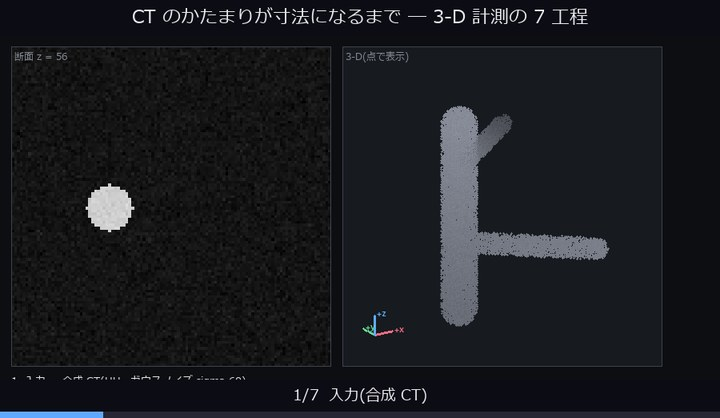
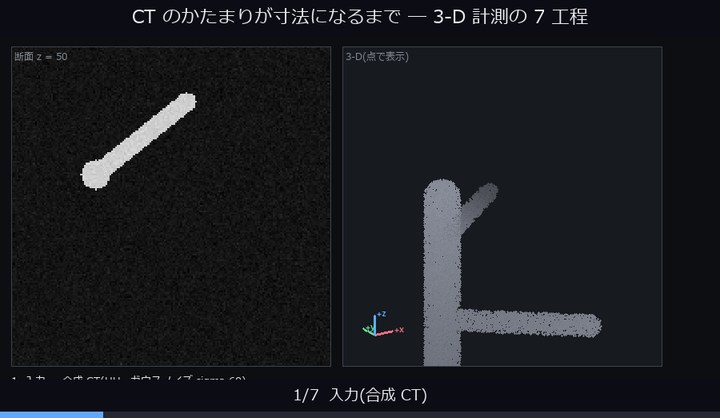
auto: test_visiondesign.py 編集前 (2026-09-02 02:49)

Changed region(s): [[0.5806, 0.2488, 0.8556, 0.9019], [0.0917, 0.2177, 0.275, 0.5598]]

diff --git a/tools/gen_wing1d_gallery.py b/tools/gen_wing1d_gallery.py
@@ -236,7 +236,7 @@ class Ax:
                 (np.log10(self.xhi) - np.log10(self.xlo))
         else:
             t = (v - self.xlo) / (self.xhi - self.xlo)
-        return self.x0 + (self.x1 - self.x0) * np.clip(t, -0.02, 1.02)
+        return self.x0 + (self.x1 - self.x0) * np.clip(t, 0.0, 1.0)
 
     def Y(self, v):
         v = np.asarray(v, np.float64)
@@ -245,7 +245,7 @@ class Ax:
             t = (np.log10(v) - np.log10(self.ylo)) / (np.log10(self.yhi) - np.log10(self.ylo))
         else:
             t = (v - self.ylo) / (self.yhi - self.ylo)
-        return self.y1 - (self.y1 - self.y0) * np.clip(t, -0.02, 1.02)
+        return self.y1 - (self.y1 - self.y0) * np.clip(t, 0.0, 1.0)
 
     # -- 部品 ------------------------------------------------------------- #
     def panel(self, color=C_PANEL) -> None:
@@ -913,7 +913,7 @@ def ex_order_tracking(log):
         ang = A.angular_resample(seg, fs, seg_rpm, samples_per_rev=64)
         rev_even = int(ang["whole_revolutions"]) // 2 * 2        # 偶数回転で切る
         os_ = A.order_spectrum(seg, fs, seg_rpm, samples_per_rev=64,
-                               revolutions=rev_even, max_order=25.0)
+                               revolutions=rev_even, max_order=31.9)
         shaft = float(np.mean(seg_rpm)) / 60.0
         rows.append({
             "t0": s0 / fs, "shaft_hz": shaft, "rpm": float(np.mean(seg_rpm)),
@@ -988,11 +988,11 @@ def ex_order_tracking(log):
         fig.text(axf.x0 + 6, axf.y0 + 4, "amp", C_DIM, 11)
 
         # 下: 次数スペクトル
-        axo = Ax(fig, 76, 410, W - 30, 552, (0.0, 25.0), (0.0, m_hi * 1.12))
+        axo = Ax(fig, 76, 410, W - 30, 552, (0.0, 32.0), (0.0, m_hi * 1.12))
         axo.panel()
         ink = fig.ink()
         axo.frame(ink)
-        axo.xticks(ink, [0, 1, 3.5, 5, 10, 15, 20, 25], "%g")
+        axo.xticks(ink, [0, 1, 3.5, 5, 10, 15, 20, 25, 30], "%g")
         axo.yticks(ink, [0.0, 0.25, 0.5, 0.75, 1.0], "%.2f")
         fig.stamp(ink, C_AXIS)
         ink = fig.ink()
@@ -1007,11 +1007,11 @@ def ex_order_tracking(log):
         fig.stamp(ink, C_TRUE)
         fig.text(80, 392, "order spectrum [shaft order] - the shaft components stay, "
                           "the resonance moves", C_TEXT, 12, True)
-        fig.text(axo.X(r["o400"]) + 6, 414,
+        fig.text(min(float(axo.X(r["o400"])) + 6, axo.x1 - 216), 414,
                  f"400 Hz = order {r['o400']:.2f} (moves)", C_TRUE, 11, True)
         fig.text(axo.X(3.5) + 4, 436, "order 3.5 (fixed)", C_B, 11, True)
         fig.text(axo.x0 + 6, axo.y0 + 4, "amp", C_DIM, 11)
-        _xunit(fig, axo, "shaft order ->")
+        fig.text(axo.x0 + 168, axo.y0 + 4, "shaft order ->", C_DIM, 11)
 
         fig.box(76, 574, W - 30, H - 12, C_PANEL2)
         fig.text(88, 580, f"cropped to {r['rev']} whole revolutions (even, so order 3.5 "

diff --git a/tests/test_visiondesign.py b/tests/test_visiondesign.py
@@ -173,7 +173,7 @@ def test_image_formation_preserves_shape_range_and_only_blurs():
     rng = np.random.default_rng(0)
     img = np.zeros((64, 64))
     img[28:36, 20:44] = 1.0
-    cap = vd.image_formation(img, f_number=8.0, pixel_pitch_um=3.45)
+    cap = vd.image_formation(img, f_number=8.0, pixel_pitch_um=3.45, vignetting=False)
     assert cap.shape == img.shape
     assert cap.dtype == np.float64
     assert 0.0 <= cap.min() and cap.max() <= 1.0
@@ -181,7 +181,8 @@ def test_image_formation_preserves_shape_range_and_only_blurs():
     assert np.abs(np.diff(cap, axis=1)).sum() < np.abs(np.diff(img, axis=1)).sum()
     # 決定的(乱数を含まない)
     assert np.array_equal(cap, vd.image_formation(img, f_number=8.0,
-                                                  pixel_pitch_um=3.45))
+                                                  pixel_pitch_um=3.45,
+                                                  vignetting=False))
     _ = rng                                                # 乱数は使わない契約
 
 

diff --git a/tools/gen_wing3d_gallery.py b/tools/gen_wing3d_gallery.py
@@ -3271,7 +3271,7 @@ def ex_pipeline(log) -> dict:
     # --- 同じ寸法のコマを作る(flipbook は寸法不一致を例外にする) ---
     FW, FH = 900, 430
     pw = 400
-    zc = 56
+    zc = 50                      # 枝が 1 本出ている高さ(工程の違いが見える断面)
     center = np.array([n / 2.0] * 3)
     Rv = _rot(32.0, 20.0)
 

diff --git a/docs/articles/exhibits/wing3d.md b/docs/articles/exhibits/wing3d.md
@@ -67,7 +67,7 @@
 
 ![CT のかたまりが寸法になるまで(7 工程)](https://raw.githubusercontent.com/furuse-kazufumi/fullseye/master/docs/articles/assets/media/wing3d_pipeline_flow.gif)
 
-*↑ **CT のかたまりが寸法になるまで(7 工程)** ―― ノイズ付きの合成 CT(112³、spacing 0.6 mm)が寸法になるまでの 7 工程をコマ送りに束ねた。窓 → 二値化 → ラベリング(連結成分 1 個)→ 最大成分(5508.2 mm³、球形度 0.4811)→ `vol_crop_domain` でメモリ **1/2.3** → 細線化(枝 5 / 分岐 2 / 端点 4)→ 距離変換で最大内接半径 **4.8374 mm**(真値 4.800 mm)。各コマに工程名と進捗が焼いてあるので、止めた 1 コマでも読める。 使用 op: `vol_window_level`, `vol_label`, `vol_region_props`, `vol_crop_domain`, `vol_uncrop`, `skeletonize_vol`, `skeleton_branches3d`, `skeleton_endpoints3d`, `skeleton_junctions3d`, `vol_distance_transform`。*
+*↑ **CT のかたまりが寸法になるまで(7 工程)** ―― ノイズ付きの合成 CT(176³、spacing 0.6 mm)が寸法になるまでの 7 工程をコマ送りに束ねた。窓 → 二値化 → ラベリング(連結成分 1 個)→ 最大成分(5816.9 mm³、球形度 0.4702)→ `vol_crop_domain` でメモリ **1/7.7** → 細線化(枝 5 / 分岐 2 / 端点 4)→ 距離変換で最大内接半径 **4.8374 mm**(真値 4.800 mm)。各コマに工程名と進捗が焼いてあるので、止めた 1 コマでも読める。 使用 op: `vol_window_level`, `vol_label`, `vol_region_props`, `vol_crop_domain`, `vol_uncrop`, `skeletonize_vol`, `skeleton_branches3d`, `skeleton_endpoints3d`, `skeleton_junctions3d`, `vol_distance_transform`。*
 
 ![断層を送る ―― `z = 48 / 95` は 38.40 mm のこと](https://raw.githubusercontent.com/furuse-kazufumi/fullseye/master/docs/articles/assets/media/wing3d_slice_zsweep.gif)
 
@@ -113,7 +113,7 @@
 | mip | GIF+mp4 | `media/wing3d_mip_turntable.gif` | 36 フレーム, 1120x640, 2.61 MB, 64 色, mp4 0.41 MB |
 | distance | GIF+mp4 | `media/wing3d_distance_transform.gif` | 46 フレーム, 1120x660, 0.61 MB, 256 色, mp4 0.09 MB |
 | connectivity | PNG | `wing3d_boundary_connectivity.png` | 948x748, 219 kB |
-| pipeline | GIF | `media/wing3d_pipeline_flow.gif` | 7 フレーム, 900x522, 0.28 MB |
+| pipeline | GIF | `media/wing3d_pipeline_flow.gif` | 7 フレーム, 900x522, 0.30 MB |
 | zsweep | GIF+mp4 | `media/wing3d_slice_zsweep.gif` | 96 フレーム, 1120x748, 1.16 MB, 256 色, mp4 0.16 MB |
 | mpr | GIF+mp4 | `media/wing3d_mpr_crosshair.gif` | 60 フレーム, 1120x620, 1.18 MB, 256 色, mp4 0.22 MB |
 | oblique | GIF+mp4 | `media/wing3d_oblique_slice.gif` | 36 フレーム, 1120x640, 0.90 MB, 256 色, mp4 0.11 MB |
